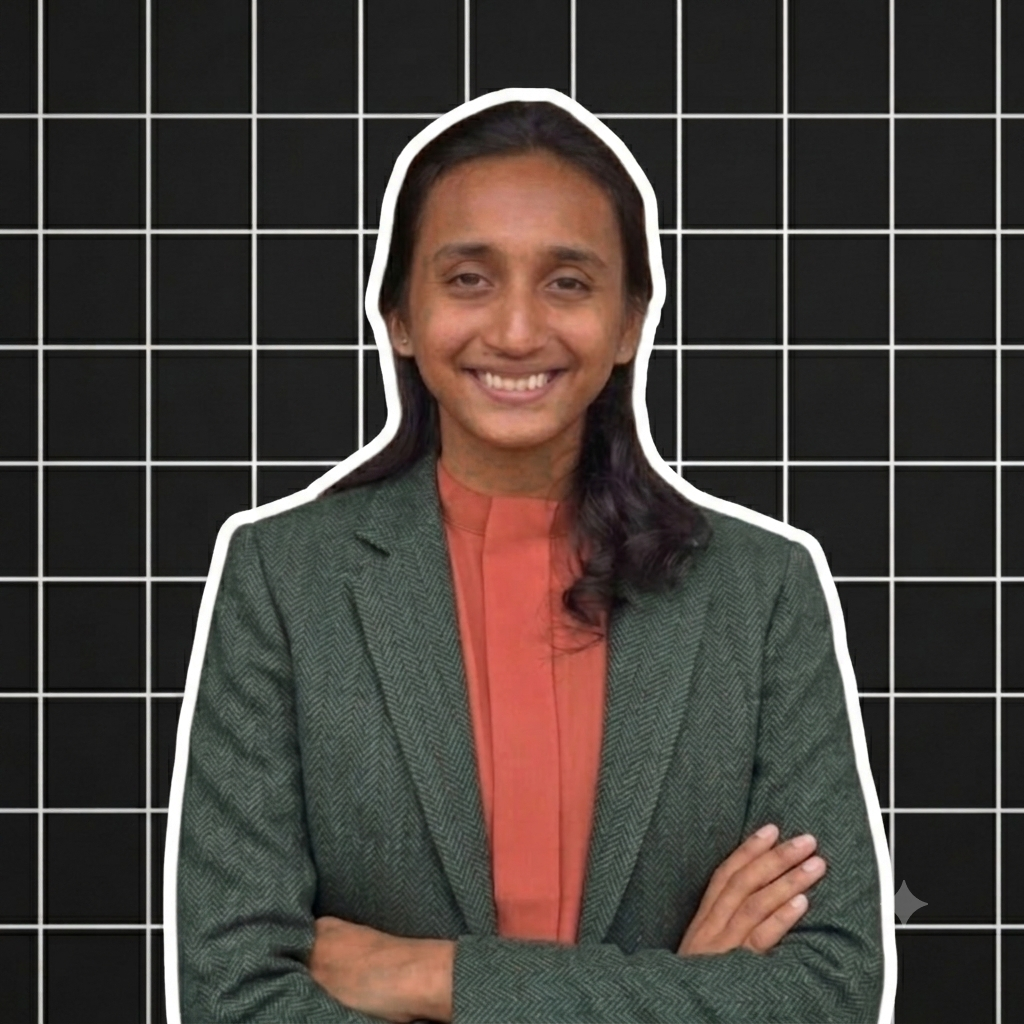
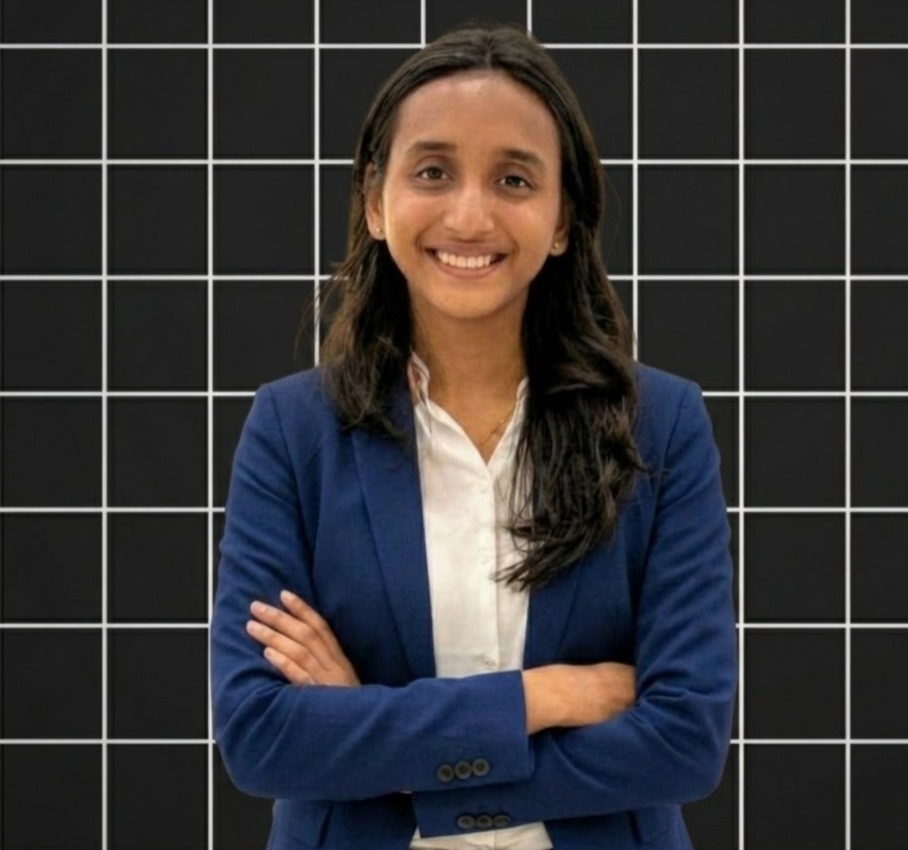
name n photo changed

diff --git a/index.html b/index.html
@@ -1496,7 +1496,7 @@
                       class="relative z-10 flex h-full w-full items-center justify-center"
                     >
                       <div class="w-fit bg-yellow px-3 py-2">
-                        <h3 class="text-xl font-black text-grey">Darsh Shah</h3>
+                        <h3 class="text-xl font-black text-grey">Darsh Davawala</h3>
                         <p class="text-center text-sm font-black text-grey">President</p>
                       </div>
                     </div>
